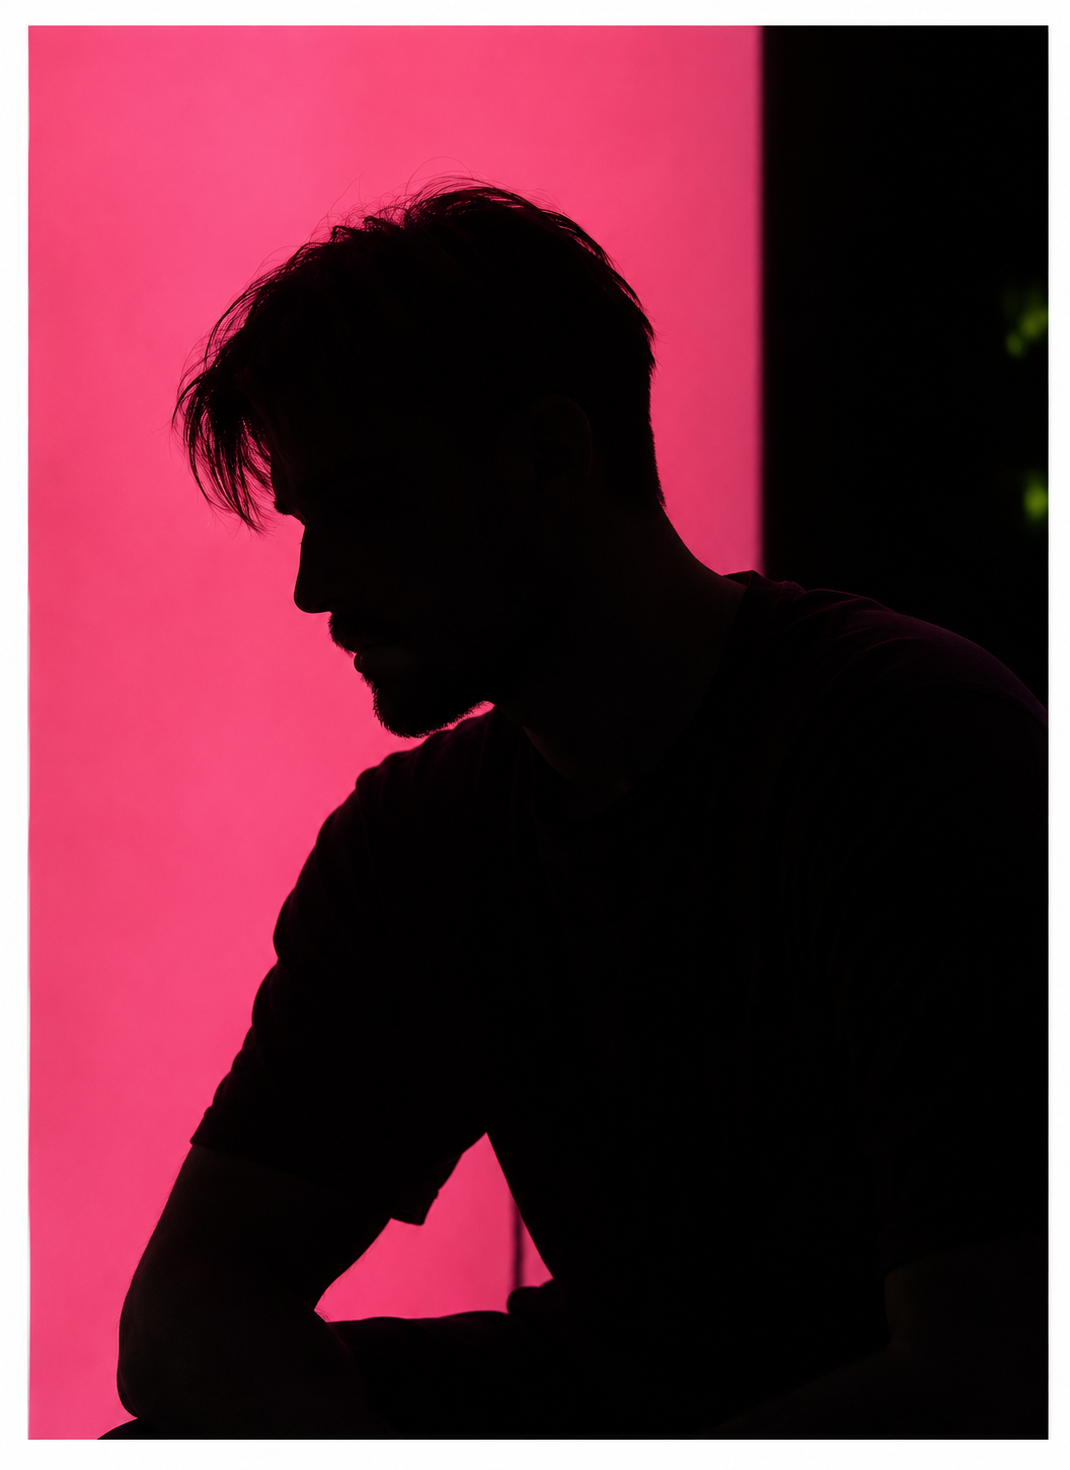
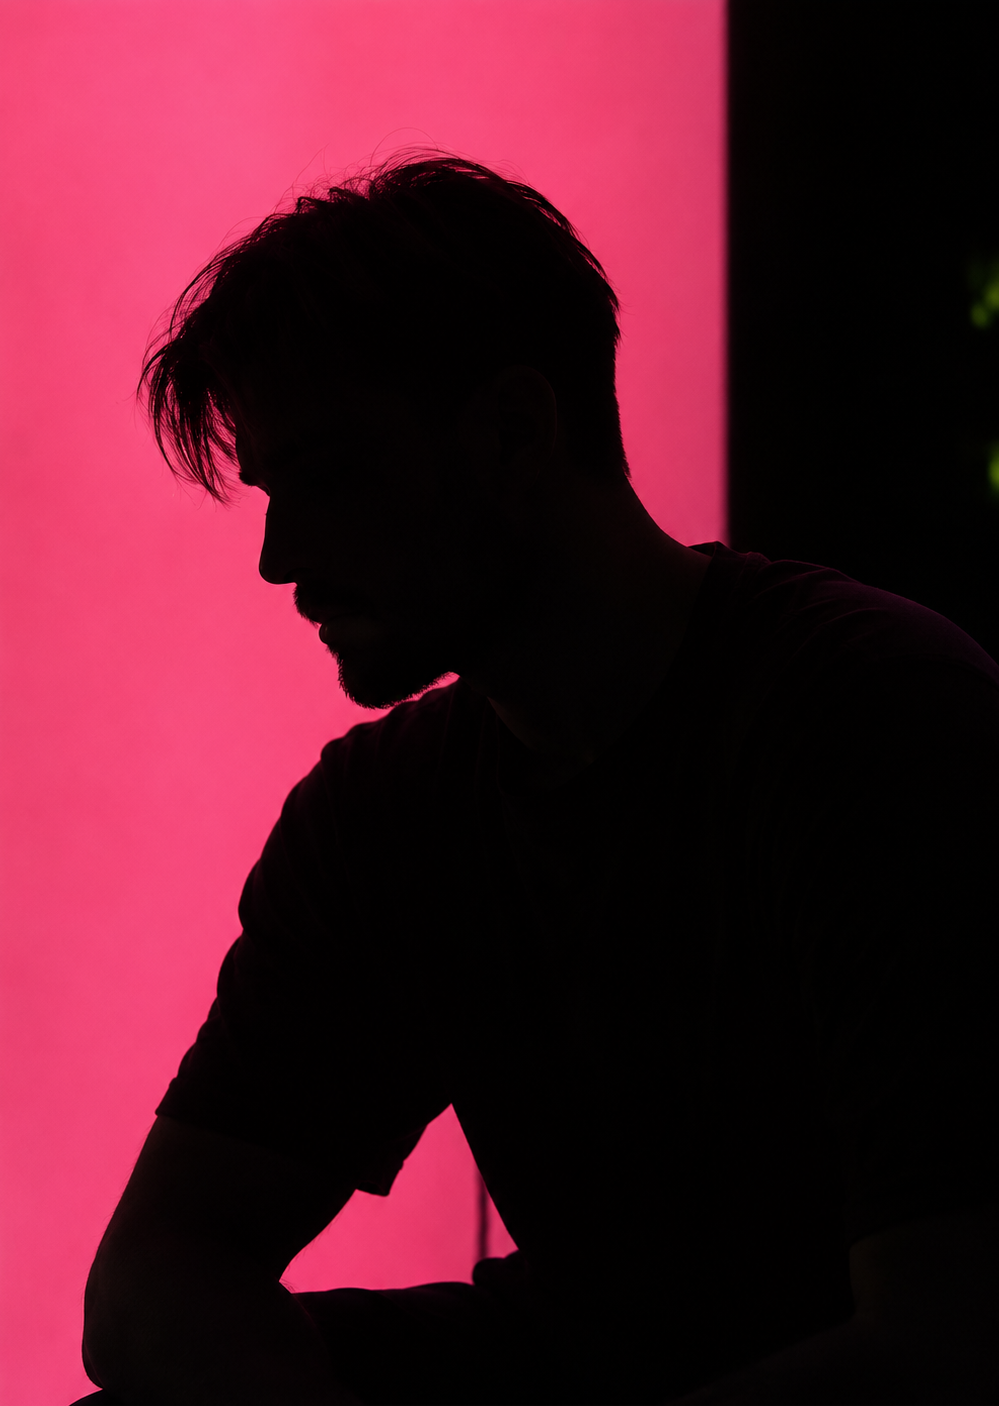
Finita sezione about me, iniziato nuovo menu

diff --git a/src/sections/About.jsx b/src/sections/About.jsx
@@ -1,5 +1,6 @@
-
 import foto from '../assets/Luca_silouette.png';
+
+const skills = ["React", "Tailwind", "C# / .NET", "Flutter", "Unity"];
 export default function About() {
   return (
     <section
@@ -16,41 +17,67 @@ export default function About() {
             </div>
             <h1 className="max-w-180 text-[64px] font-bold tracking[-0.07em] leading-[0.92]">Dietro il <span className="text-[#6d3df5]">codice</span>, ci sono io.</h1>
           </div>
-          <div className='flex flex-col items-end justify-end'>
+          <div className='flex flex-col md:items-end md:justify-end'>
             <p className="pb-2 text-[15px] leading-[1.75] max-w-97.5 m-0">
               Full-stack developer, curioso per natura. Progetto prodotti digitali completi, dal primo componente all'ultima API.
             </p>
           </div>
         </div>
         <div className="w-full h-px bg-[#aaa9a3] mt-10"></div>
-        
 
-        <div className="mt-12 grid gap-12 md:grid-cols-2">
-          <div>
-            <img src={foto} alt="" className='h-full object-fill '/>
+        <article 
+        className='grid md:grid-cols-[minmax(18rem,0.82fr)_minmax(30rem,1.45fr)] rounded-[1.35rem] min-h-136 sm:min-h-63 mt-8
+        overflow-hidden border border-[#bcbcbc] bg-white shadow-[0_1.5rem_3.5rem_rgba(0,0,0,0.4)]'>
+          <div 
+          className='relative min-h-full overflow-hidden bg-[#ed2c67]
+          after:absolute after:inset-0 after:bg-[linear-gradient(180deg,transparent_58%,rgba(0,0,0,0.7)_100%)] after:pointer-events-none'>
+            <img src={foto} alt="Foto Luca" className='w-full h-full object-cover filter-[saturate(0.9)_contrast(1.04)]' />
+            <div 
+            className='absolute z-1 right-[1.6rem] bottom-6 left-[1.6rem] flex justify-between gap-4
+            text-[rgba(255,255,255,0.88)] text-[0.58rem] font-semibold tracking-[0.08em] uppercase'>
+              <p>Based in italy</p>
+              <p>Full-stack developer</p>
+            </div>
           </div>
-          {/* Colonna sinistra: testo */}
-          <div className="space-y-5 text-lg leading-relaxed text-neutral-600">
-            <h2 className="text-5xl leading-[1.05] font-bold tracking-tight text-neutral-900 sm:text-6xl md:text-7xl">
-              Chi sono
+          <div 
+          className='flex flex-col p-[clamp(2rem,4vw,3.5rem)]'>
+            <div 
+            className='flex items-center justify-between gap-4 pb-5 border-b border-b-[#d6d6d6]
+            text-[#686868] text-[0.62rem] font-semibold tracking-widest uppercase'>
+              <p>Profilo</p>
+              <span 
+              className='flex items-center gap-[0.55rem] text-[#4c4c4c] tracking-[0.04em]'>
+                <i aria-hidden="true"
+                className='w-[0.4rem] h-[0.4rem] rounded-[50%] bg-[#36a968] shadow-[0_0_0_0.2rem_rgba(54,169,104,0.12)]'></i>
+                  Disponibile per nuove opportunità
+              </span>
+            </div>
+            <h2 className='max-w-156 mt-[clamp(2rem,3.5vw,3rem)] text-[clamp(1.65rem,2.6vw,2.5rem)] font-semibold tracking-[-0.045em] leading-[1.22]'>
+              Mi piace capire come funziona tutto, non solo la parte che si vede.
             </h2>
-            <p>
-              Sono Luca, sviluppatore full-stack. Lavoro sia sul front-end, con React, Tailwind, anche con CSS custom costruito sul progetto, sia sul back-end con C#/.NET, Python e PHP.
-              Sviluppo anche cross-platform mobile con Flutter/Dart.
-            </p>
-            <p>
-              Sono da sempre appassionato di informatica e videogiochi e m'interessa seguire un progetto per intero, dalle prime fasi di progettazione e stesura del prodotto all'interfaccia finale che l'utente vedrà,
-              nonostante il tempo passato ancora mi diverto a mettere le mani sulla tastiera e scrivere codice per mio conto, ricercare e debuggare.
-            </p>
-            <p>
-              Ultimamente sto approfondendo molto lo sviluppo mobile e back-end tramite Flutter e C#/.NET. Mi dedico anche a Unity nel tempo libero.
-              <br /> Cerco un team/azienda in cui potermi inserire per portare il mio entusiamo e le mie conoscenze ad un livello ancora più alto
-            </p>
+            <div
+            className='grid grid-cols-[1fr_1fr] gap-[clamp(1.5rem,3vw,2.75rem)] m-[2rem_0_clamp(2.2rem,4vw,3.5rem)] text-[#585858] text-[0.85rem] leading-[1.75]'>
+              <p>Lavoro sul front-end con React, Tailwind e CSS custom e sul back-end con C#/.NET, Python e PHP. Sviluppo anche esperienze mobile cross-platform con Flutter e Dart.</p>
+              <p>Informatica e videogiochi alimentano da sempre la mia curiosità. Seguo ogni progetto nella sua interezza, dalla struttura iniziale fino ai dettagli dell'interfaccia</p>
+            </div>
+            <div className='grid grid-cols-[1fr_0.8fr] gap-5 items-stretch mt-auto'>
+              <div>
+              <p className='mb-[0.85rem] text-[#646464] text-[0.58rem] font-semibold tracking-widest uppercase'>Tecnologie che uso</p>
+              <div aria-label='Tecnologie principali' className='flex flex-wrap gap-[0.45rem]'>
+                {skills.map((skill) => (
+                  <span key={skill}
+                  className='p-[0.48rem_0.75rem] border border-[#d3d3d3] rounded-[999px] bg-white text-[0.66rem] font-semibold'>{skill}</span>
+                ))}
+              </div>
+              </div>
+              <aside className='p-[1.2rem_1.3rem] border border-[#d7ceff] rounded-[0.8rem] bg-[#eeeaff] '>
+                <p className='mb-[0.55rem] text-[#6144d5] text-[0.58rem] font-semibold tracking-widest uppercase'>Focus Attuale</p>
+                <strong className='block mb-[0.3rem] text-[0.82rem]'>Mobile, back-end e Unity</strong>
+                <span className='block text-[#656565] text-[0.66rem] leading-normal'>Continuo ad imparare, un progetto alla volta</span>
+              </aside>
+            </div>
           </div>
-
-          {/* Colonna destra: Fotografia/Avatar*/}
-          
-        </div>
+        </article>
       </div>
     </section>
   )

diff --git a/src/components/ui/SkillsCard.jsx b/src/components/ui/SkillsCard.jsx
@@ -38,8 +38,8 @@ export default function SkillsCard(){
             ))}
           </div>
           <article
-            className={`grid md:grid-cols-[1.25fr_0.75fr] min-h-87.5 overflow-hidden border border-[#b8b7b1] rounded-[22px] bg-[#fcfb780]/86 shadow-[0_28px_70px_rgba(38,31,18,0.08)] 
-            transition duration-300 ${selectedTech != null ? 'opacity-100' : 'opacity-0'}
+            className={`grid md:grid-cols-[1.25fr_0.75fr] overflow-hidden border border-[#b8b7b1] rounded-[22px] bg-[#fcfb780]/86 shadow-[0_28px_70px_rgba(38,31,18,0.08)] 
+            transition-[max-height,opacity] duration-300 ease-in ${selectedTech != null ? 'opacity-100 min-h-87.5' : 'opacity-0 max-h-0'}
             animate-[detail-in_420ms_cubic-bezier(0.2,0.7,0.2,1)_both]`}
             role='tabpanel'
             key={selectedTech}

diff --git a/src/sections/Skills.jsx b/src/sections/Skills.jsx
@@ -16,7 +16,7 @@ export default function Skills() {
             </div>
             <h1 className="max-w-180 text-[64px] font-bold tracking[-0.07em] leading-[0.92]">Il mio <span className="text-[#6d3df5]">toolkit</span> digitale.</h1>
           </div>
-          <div className="flex flex-col items-end justify-end">
+          <div className="flex flex-col md:items-end md:justify-end">
             <p className="pb-2 text-[15px] leading-[1.75] max-w-97.5 m-0">
               Linguaggi, framework e strumenti che uso ogni giorno per trasformare idee
               in prodotti digitali concreti.

diff --git a/src/components/layouts/Navbar.jsx b/src/components/layouts/Navbar.jsx
@@ -24,7 +24,7 @@ export default function Navbar() {
   }
 
   return (
-    <nav className="fixed top-0 left-0 w-full bg-white backdrop-blur-md border-b border-slate-800/80 z-40" data-lag="0">
+    <nav className="fixed top-0 left-0 right-0 z-20 grid grid-cols-[1fr_auto_1fr] items-center h-19 p-[0_clamp(24px,4.2vw,72px)] bg-white border-b border-b-black" data-lag="0">
       <div className="w-full mx-auto px-6 h-16 flex items-center">
         
         {/* LOGO / NOME */}

diff --git a/index.html b/index.html
@@ -2,7 +2,7 @@
 <html lang="en">
   <head>
     <meta charset="UTF-8" />
-    <link rel="icon" type="image/svg+xml" href="/favicon.svg" />
+    <link rel="icon" type="image/png" href="/favicon-nero.png" />
     <meta name="viewport" content="width=device-width, initial-scale=1.0" />
     <title>portfolio</title>
   </head>
